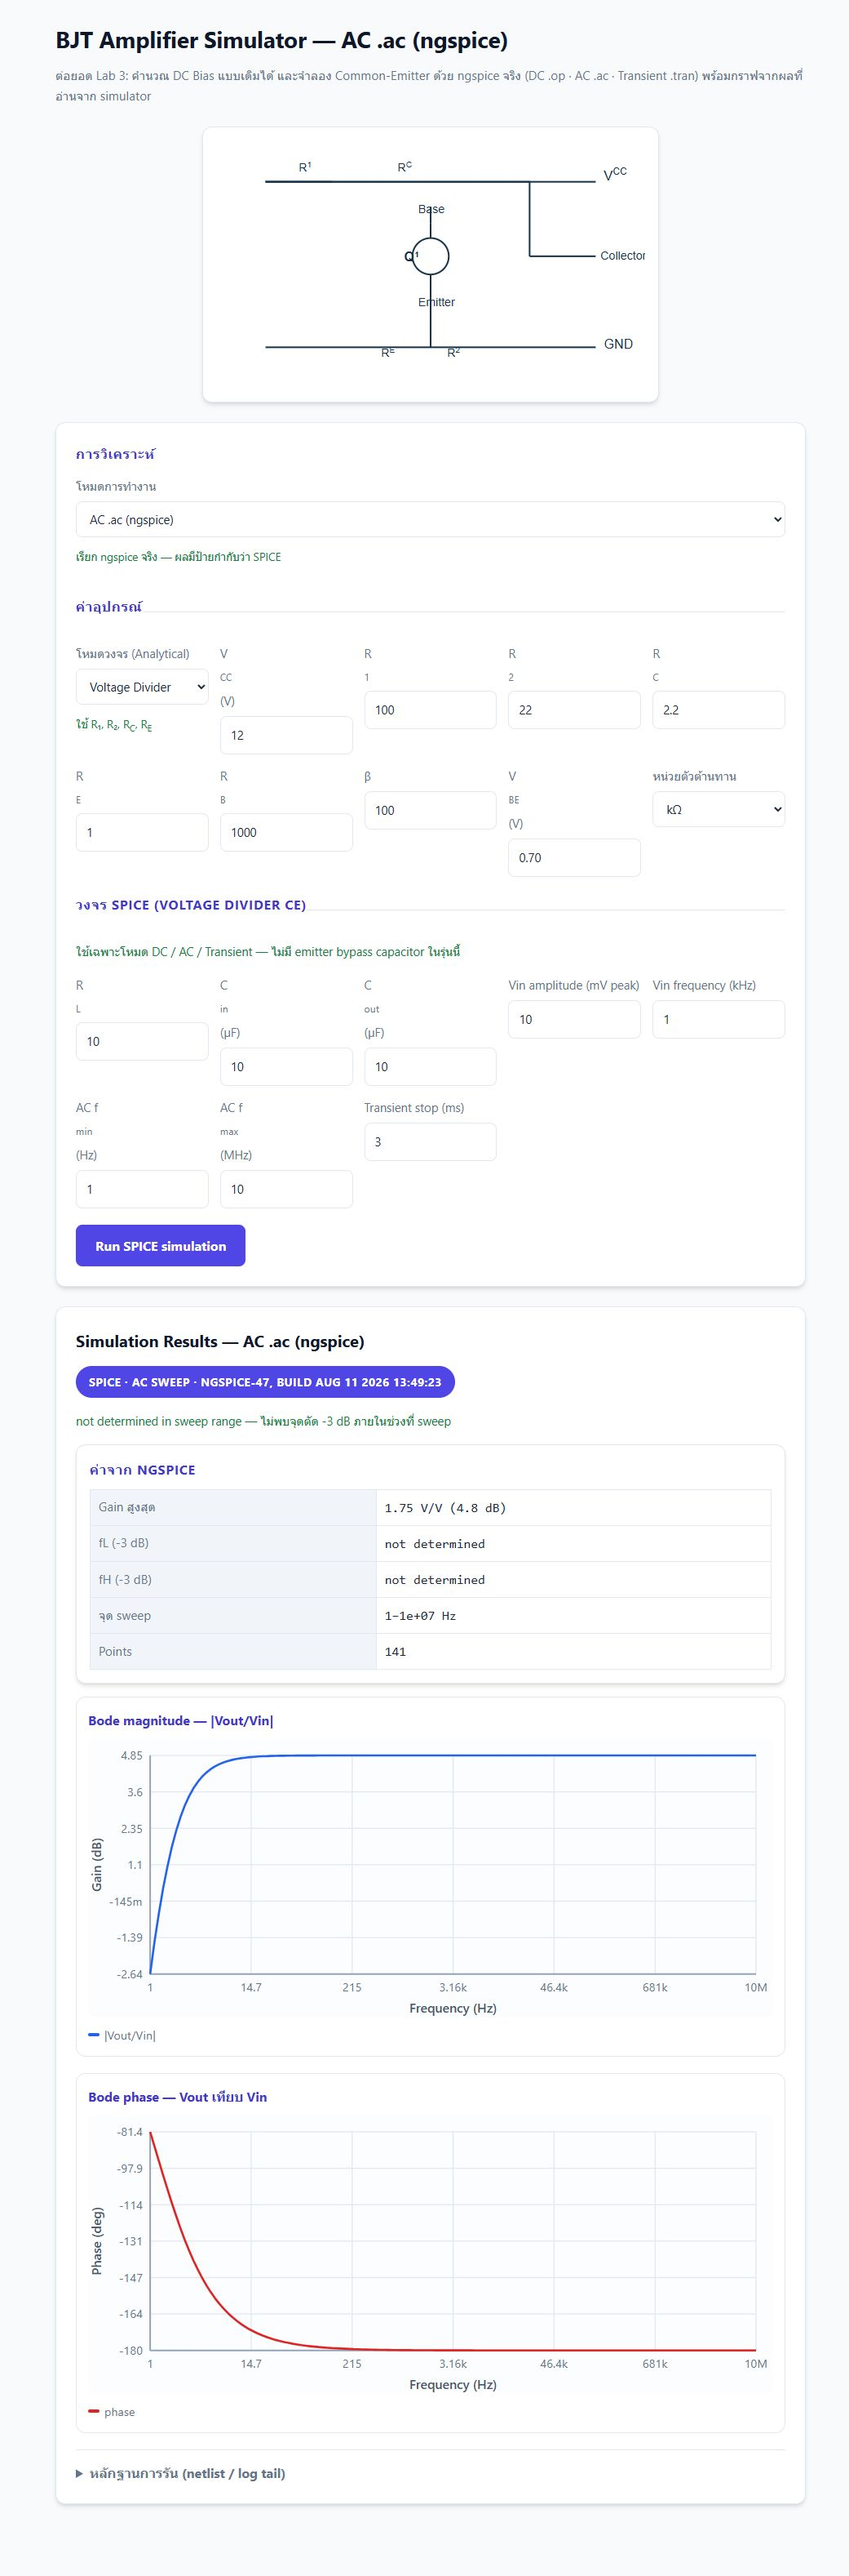
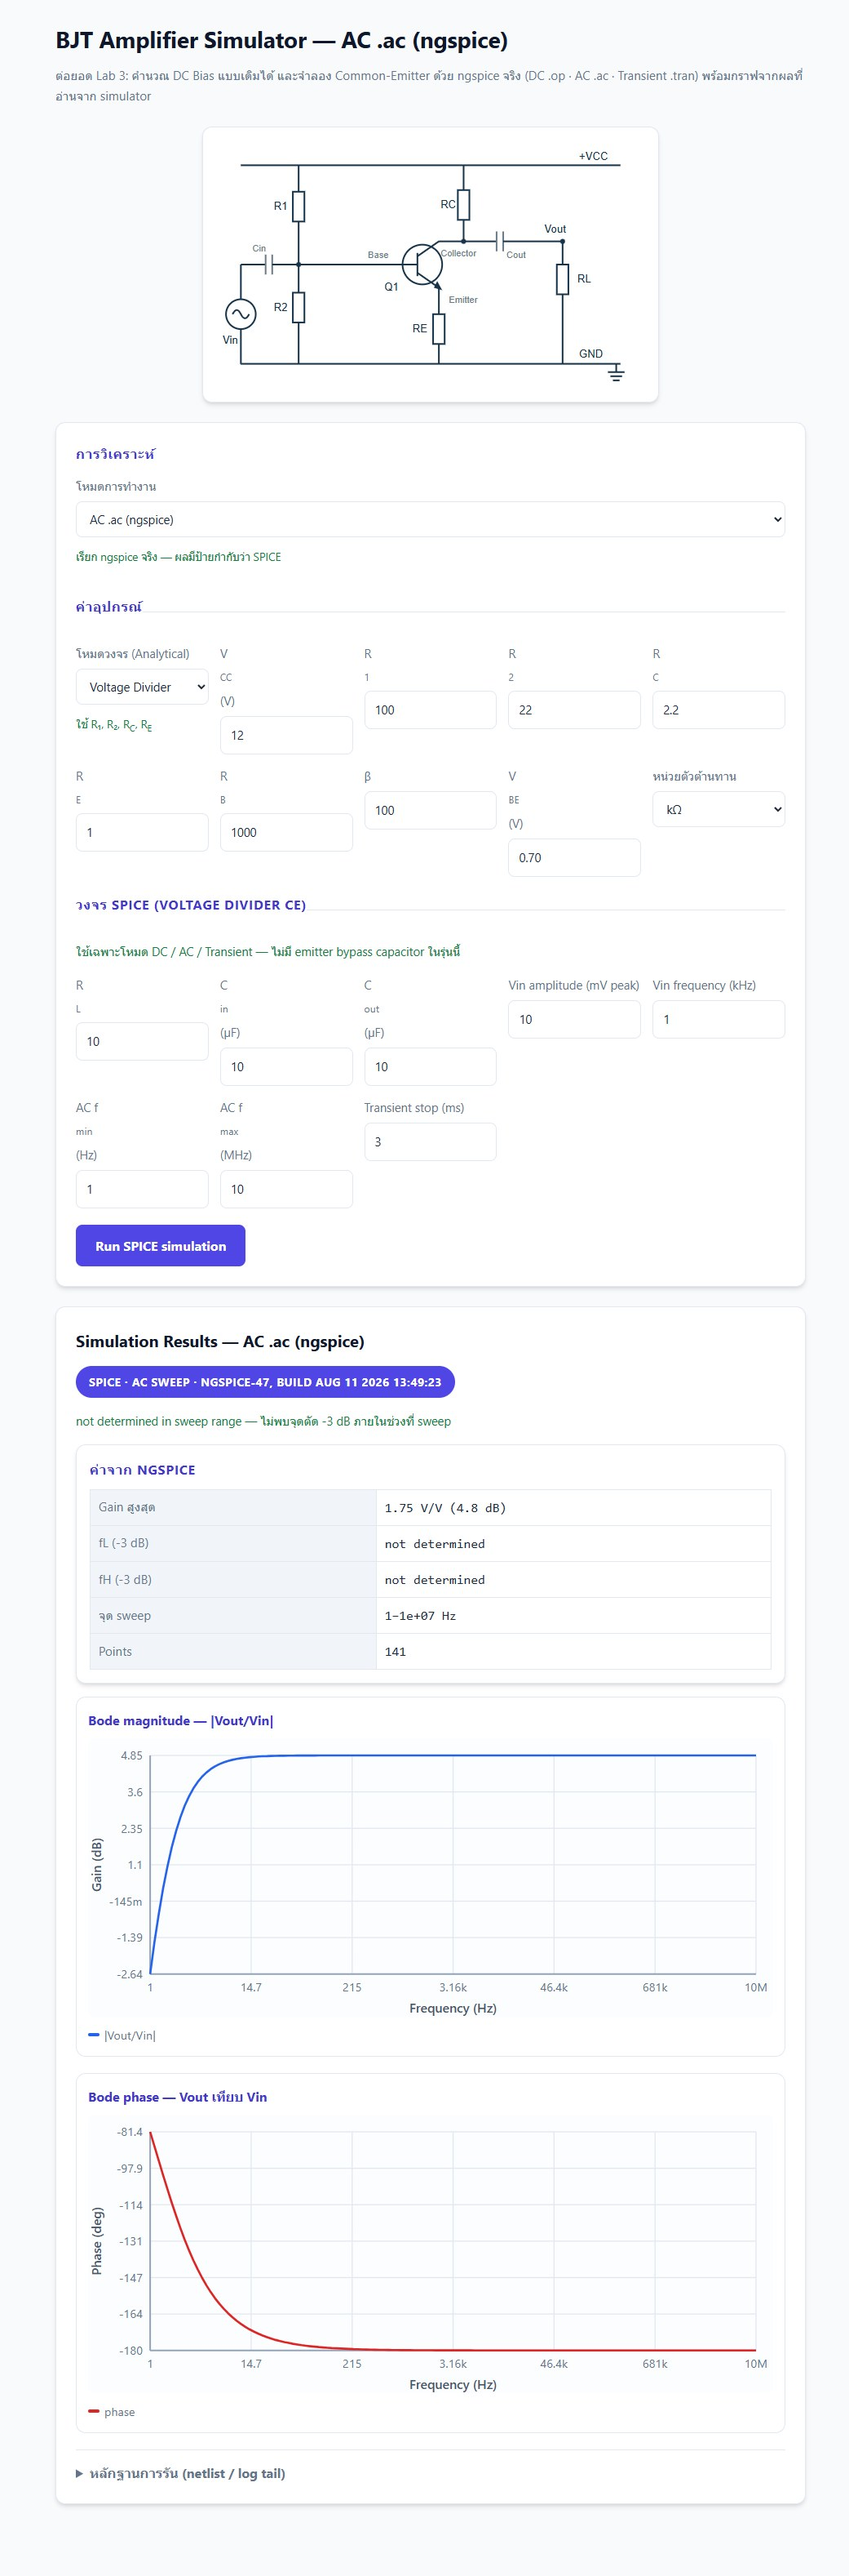
docs: show complete CE amplifier schematic in UI evidence

Changed region(s): [[0.4611, 0.0621, 0.5533, 0.1553], [0.6148, 0.0621, 0.7378, 0.1553], [0.2767, 0.0621, 0.3689, 0.1553]]

diff --git a/docs/validation.md b/docs/validation.md
@@ -92,6 +92,7 @@ python -m flask --app app run --debug
 3. **กราฟมาจาก raw file จริง** — `spice_engine.parse_raw()` อ่าน `run.raw` ที่ ngspice เขียน; `charts.py` คำนวณพิกัด SVG จาก array นั้นฝั่ง server ไม่มี JavaScript และไม่มีข้อมูลตัวอย่างฝังใน template
 4. **เครื่องมือตรวจรับไม่ตรงตามใบงาน 100%** — ไม่มี Playwright MCP และ Impeccable skill ในสภาพแวดล้อมนี้ จึงใช้ in-app browser ของ OpenCode + ปรับ CSS ด้วยตนเอง และระบุตรงไปตรงมาว่าไม่มีหลักฐานจาก skill ดังกล่าว
 5. **Screenshot ไม่ได้พิสูจน์ค่าทางวิศวกรรม** — ตัวเลขในตารางอ่านจาก DOM/netlist/log ที่ browser แสดงจริง มี screenshot เป็นหลักฐานประกอบเท่านั้น
+6. **แผนภาพวงจรใน evidence ถูกอัปเดตให้ครบ** — `static/images/bjt-voltage-divider.svg` แสดง `+VCC, GND, Vin, Cin, R1, R2, Base, RC, Q1, Collector, Emitter, RE, Cout, Vout, RL` และต่อเชื่อมถูกต้องตาม Common-Emitter; ตรวจจาก `<text>` ใน SVG ที่ browser โหลดจริง แล้วถ่าย screenshot ใหม่แทนของเดิม (ยังเป็น UI เดิม ไม่ใช่ภาพ generating ภายนอก)
 
 ## วิธีทำซ้ำ Lab 04
 
